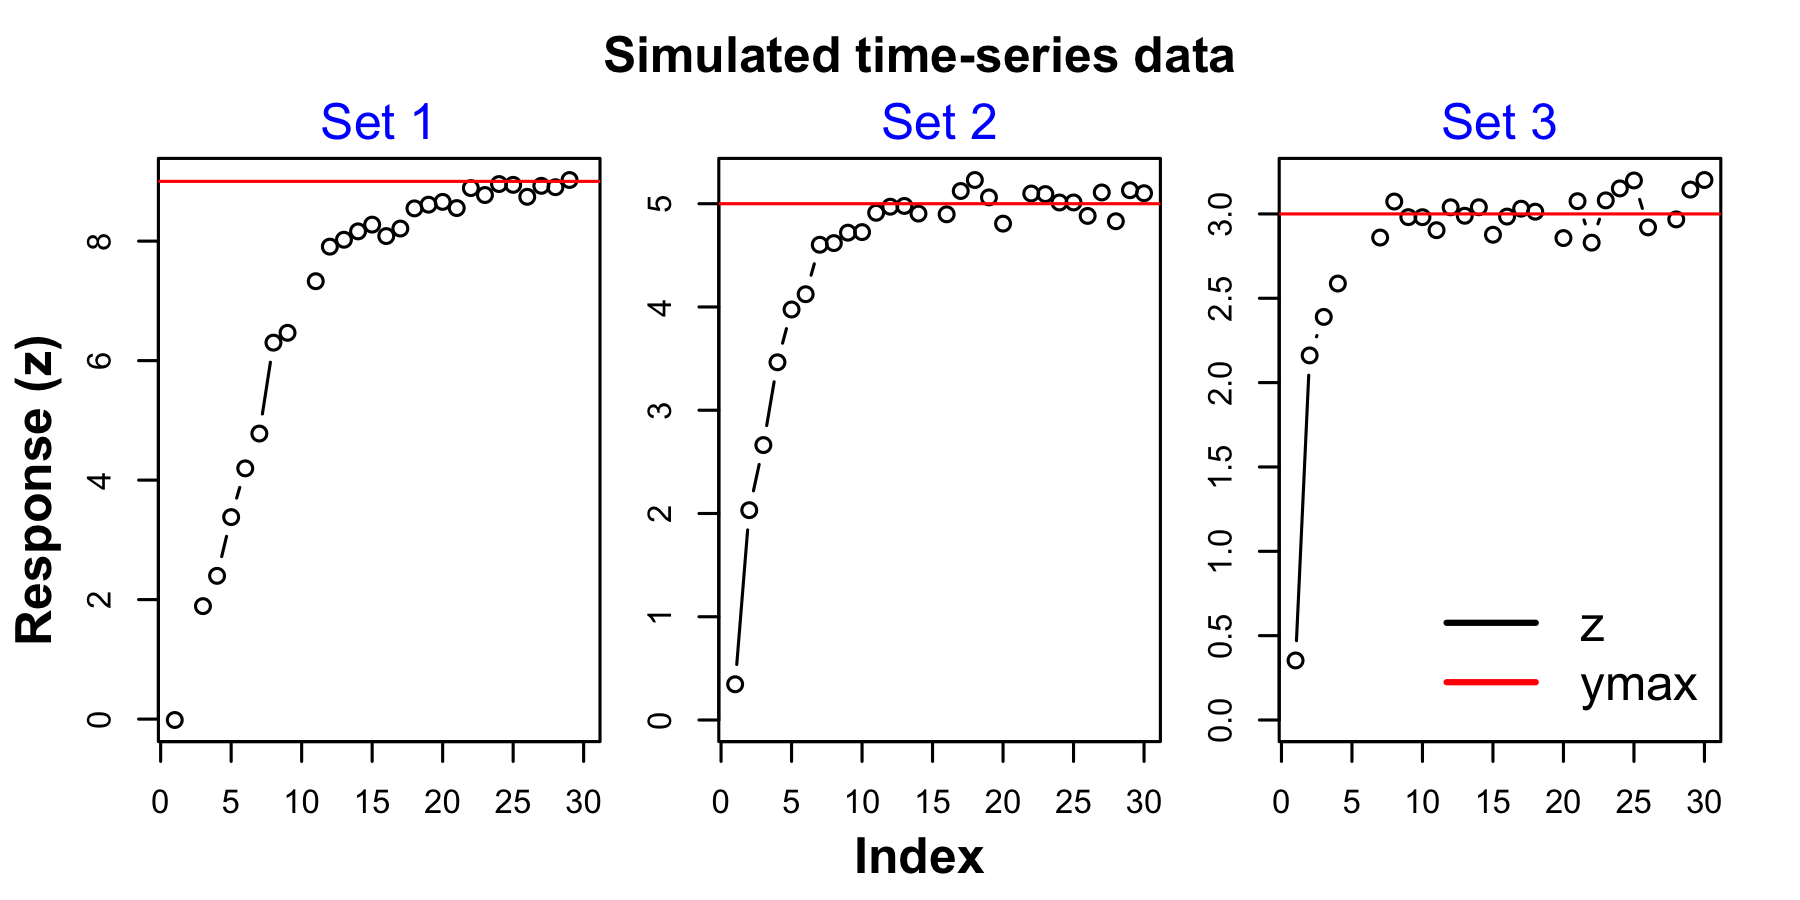
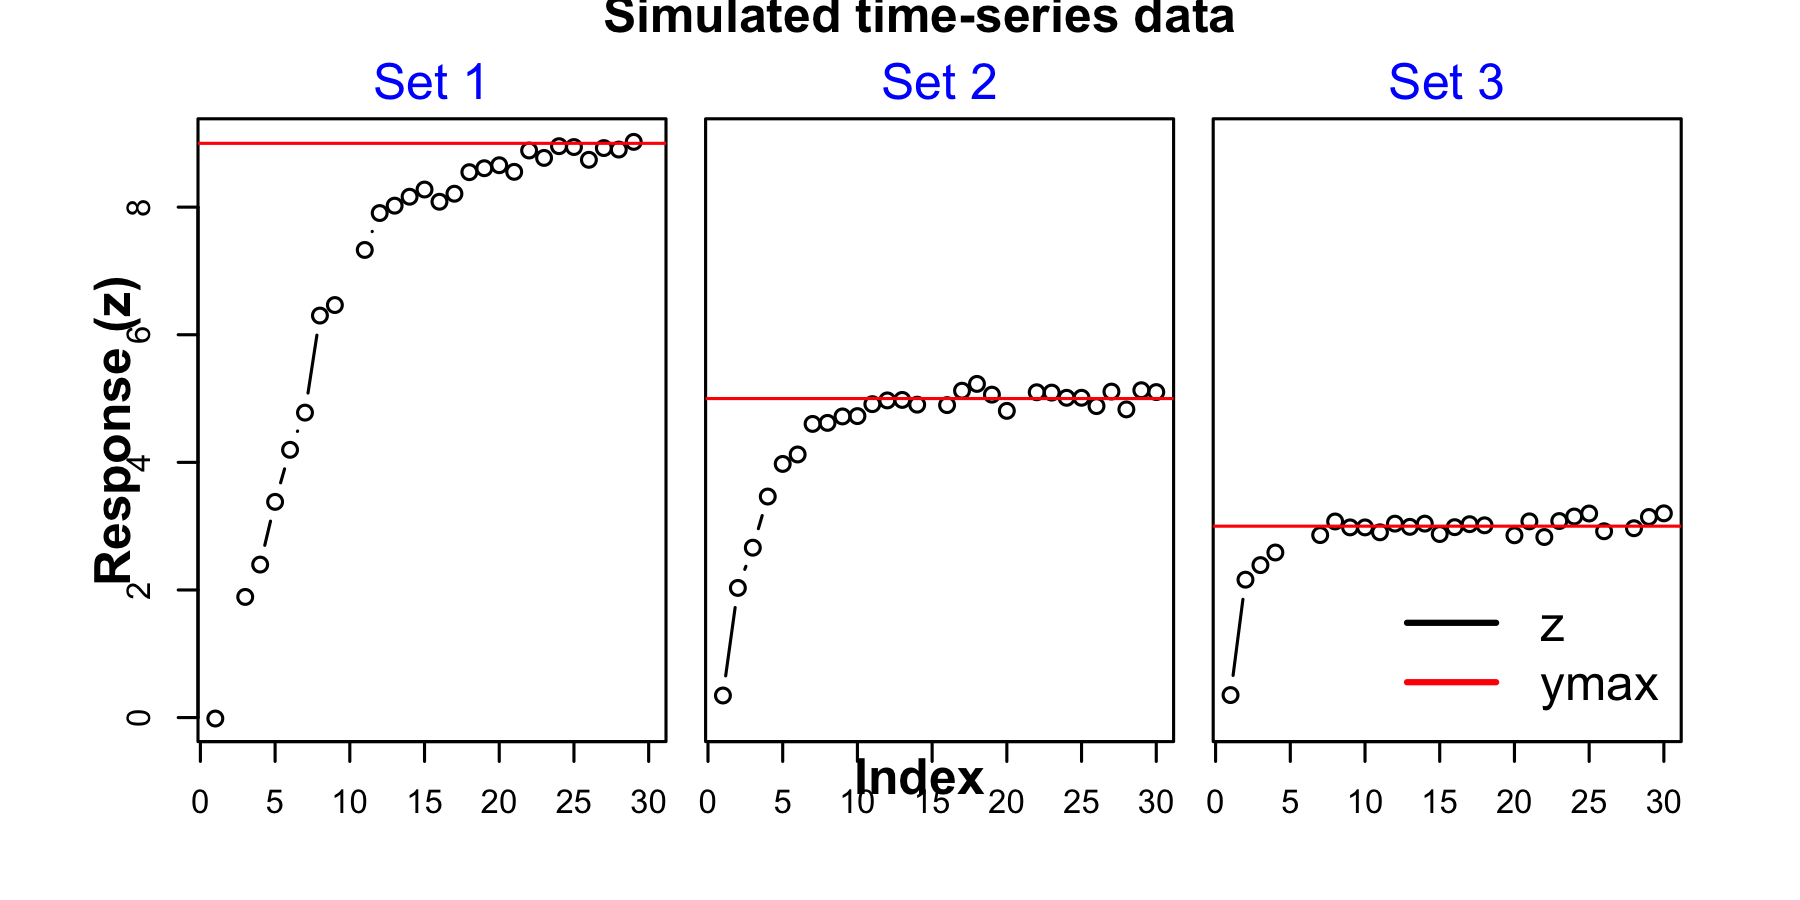
figures

diff --git a/README.md b/README.md
@@ -30,6 +30,8 @@ library(phenoCDM)
 Simulating a dataset of three time-series:
 ```{r, echo=TRUE}
 
+set.seed(2)
+
 ssSim <- phenoSim(nSites = 3, #number of sites
                   nTSet = 30, #number of time steps
                   beta = c(1, 2), #beta coefficients
@@ -37,7 +39,7 @@ ssSim <- phenoSim(nSites = 3, #number of sites
                   tau = 0.1, #observation error
                   plotFlag = F, #whether plot the data or not
                   miss = 0.1, #fraction of missing data
-                  ymax = c(9,5, 12) #maximum of saturation trajectory)
+                  ymax = c(9,5, 3) #maximum of saturation trajectory)
 
 ```
 
@@ -66,7 +68,7 @@ mtext(text = 'Index', side = 1, line = 0.5, outer = T, font = 2)
 dev.off()
 
 ```
-[Figure 1. Simulated data](fig1.png)
+[!Figure 1. Simulated data](fig1.png)
 
 
 
@@ -113,3 +115,31 @@ dev.off()
 
 ![Figure 2. Model efficiency](fig2.png)
 
+
+
+
+Comparing the model fitted parameters agaist true values:
+```{r, echo=TRUE}
+
+
+
+yGibbs <- t(apply(ssOut$rawsamples$y, 1:2, mean))
+o <- ssOut$data$z
+p <- apply(ssOut$rawsamples$y, 1, mean)
+R2 <- cor(na.omit(cbind(o, p)))[1,2]^2
+
+
+png('fig3.png', width = 5, height = 5, units = 'in', res = 300)
+par( mar=c(4,4,1,1), font.axis=2)
+
+plotPOGibbs(o = o , p = yGibbs, xlim = c(0,10), ylim=c(0,10), cex = .7)
+mtext(paste0('R² = ', signif(R2, 3)), line = -1, cex = 2, font = 2, side = 1, adj = .9)
+legend('topleft', legend = c('predictions', '95th percentile', '1:1 line'),
+       col = c('#fb8072','#80b1d3','black'),bty = 'n', cex=1.5,
+       lty = c(NA, 1, 2), lwd =c(NA, 2, 2), pch = c(16, NA, NA))
+
+dev.off()
+
+```
+
+![Figure 3. Predictions vs Observed](fig3.png)
